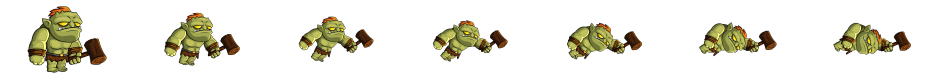
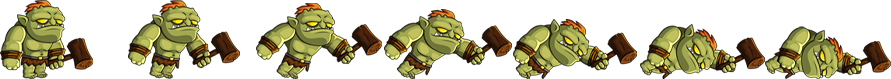
improve

diff --git a/js/index.js b/js/index.js
@@ -88,7 +88,7 @@ function spawnEnemies() {
                 healthMax: 100,
                 imageSrc: 'img/orc.png',
                 framesMax: 7,
-                scale: 1,
+                scale: 0.7,
                 offset: { x: 0, y: 0 },
                 speed: 1
             }));
@@ -188,29 +188,14 @@ function animate() {
                         return projectile.enemy === enemy;
                     });
                     if (enemyIndex > -1) {
-                        sound('./sound/orc-death.mp3');
-                        enemiesDie.push(new Enemy({
-                            position: {
-                                x: projectile.enemy.position.x,
-                                y: projectile.enemy.position.y
-                            },
-                            health: 0,
-                            healthMax: 100,
-                            imageSrc: 'img/orcdie.png',
-                            framesMax: 7
-                        }));
+                        this.createEnemyDie(projectile);
 
                         enemies.splice(enemyIndex, 1);
                         coins += projectile.enemy.bounes;
                         document.querySelector('#coins').innerHTML = coins;
                     };
                 }
-                explosions.push(new Sprite({
-                    position: { x: projectile.position.x, y: projectile.position.y },
-                    imageSrc: './img/explosion.png',
-                    frames: { max: 4 },
-                    offset: { x: 0, y: 0 }
-                }));
+                this.createExplosions(projectile);
                 building.projectiles.splice(i, 1);
             }
         }
@@ -238,7 +223,8 @@ canvas.addEventListener('click', (event) => {
             position: {
                 x: activeTile.position.x,
                 y: activeTile.position.y
-            }
+            },
+            scale: 0.5
         });
         buildings.push(building);
         activeTile.building = building;
@@ -264,3 +250,28 @@ window.addEventListener('mousemove', (event) => {
 
     }
 });
+
+function createEnemyDie(projectile) {
+    sound('./sound/orc-death.mp3');
+    enemiesDie.push(new Enemy({
+        position: {
+            x: projectile.enemy.position.x,
+            y: projectile.enemy.position.y
+        },
+        health: 0,
+        healthMax: 100,
+        imageSrc: 'img/orcdie.png',
+        framesMax: 7,
+        scale: 0.7
+    }));
+}
+
+function createExplosions(projectile) {
+    explosions.push(new Sprite({
+        position: { x: projectile.position.x, y: projectile.position.y },
+        imageSrc: './img/explosion.png',
+        frames: { max: 4 },
+        offset: { x: 0, y: 0 },
+        scale: 0.5
+    }));
+}

diff --git a/js/classes/Enemy.js b/js/classes/Enemy.js
@@ -15,7 +15,7 @@ class Enemy extends Sprite {
             x: this.position.x + (this.width / 2),
             y: this.position.y + (this.height / 2)
         };
-        this.radius = 50;
+        this.radius = 10;
         this.health = health;
         this.healthMax = healthMax;
         this.velocity = {
@@ -28,14 +28,7 @@ class Enemy extends Sprite {
 
     draw() {
         super.draw();
-        // health bar
-        const xoffsetHealth = 0;
-        const yoffsetHealth = 15;
-        c.fillStyle = 'red';
-        c.fillRect(this.position.x + xoffsetHealth, this.position.y - yoffsetHealth, this.width, 10);
-
-        c.fillStyle = 'green';
-        c.fillRect(this.position.x + xoffsetHealth, this.position.y - yoffsetHealth, this.width * (this.health / this.healthMax), 10);
+        this.drawHealthBar();
     }
 
     update() {
@@ -63,5 +56,17 @@ class Enemy extends Sprite {
         ) {
             this.waypointIndex += 1;
         }
+    }
+
+    drawHealthBar() {
+        const widthHealth = this.width * this.scale;
+        // health bar
+        const xoffsetHealth = 0;
+        const yoffsetHealth = 15;
+        c.fillStyle = 'red';
+        c.fillRect(this.position.x + xoffsetHealth, this.position.y - yoffsetHealth, widthHealth, 5);
+
+        c.fillStyle = 'green';
+        c.fillRect(this.position.x + xoffsetHealth, this.position.y - yoffsetHealth, widthHealth * (this.health / this.healthMax), 5);
     }
 }
